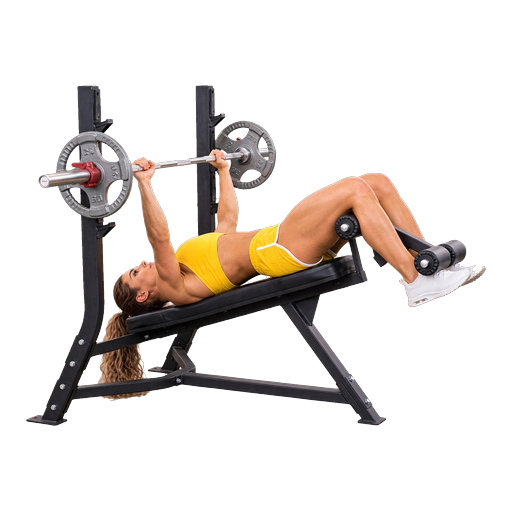
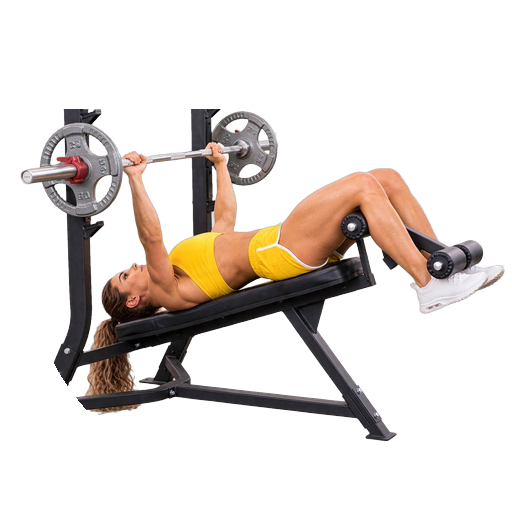
1.8.40 : nouveaux cadrages et détourage refait pour 8 icônes d'exercices
Claude-Session: https://claude.ai/code/session_01D2bERS7WBZgExNoVRodtwC

Changed region(s): [[0.0312, 0.1562, 1.0, 0.875]]

diff --git a/sw.js b/sw.js
@@ -4,7 +4,7 @@
 // APP_VERSION doit être incrémenté à chaque release (en même temps que
 // manifest.json) : le navigateur ne réinstalle le service worker que si
 // le contenu de ce fichier change.
-const APP_VERSION = '1.8.39';
+const APP_VERSION = '1.8.40';
 // 1.7.64 (co-auteur : Claude) : production (…/suivi-fitness/) et test (…/suivi-fitness/dev/) sont sur le même
 // domaine et partagent le stockage des caches : chaque version nomme ses caches d'après son dossier et ne
 // supprime que les siens (plus les anciens caches sans dossier, d'avant la 1.7.64).

diff --git a/CHANGELOG.md b/CHANGELOG.md
@@ -7,6 +7,15 @@ et ce projet respecte [Semantic Versioning](https://semver.org/spec/v2.0.0.html)
 
 ---
 
+## [1.8.40] - 2026-11-18
+### 🎨 Icônes d'exercices : nouveaux cadrages et détourage refait (co-auteur : Claude)
+- Cadrages choisis sur la planche interactive : « Débordant » (serré, coupé net par le bas de la pastille, la tête et les bras peuvent dépasser en haut) pour Développé décliné, Écarté poulie, Curl incliné, Rotation russe, Tapis de course, Curl biceps et Rowing barre (ces deux derniers plus zoomés) ; « Serré » pour Relevés de jambes suspendu (barre raccourcie à droite, baskets entières).
+- Rien d'essentiel n'est coupé par la pastille : baskets, cheveux et disques de barre peuvent déborder.
+- Détourage refait : l'athlète est détourée par un modèle (cheveux, peau et baskets blanches nets, plus de taches de fond), le matériel sombre (banc, tapis, barre, tapis de course) par la couleur du fond.
+- Écarté poulie : câbles des poulies en jaune à liseré noir, lisibles sur fond sombre.
+
+---
+
 ## [1.8.39] - 2026-11-18
 ### 🎨 Icônes d'exercices : 5 nouvelles, 3 remplacées (co-auteur : Claude)
 - Nouvelles : Développé décliné, Écarté poulie, Curl incliné, Rotation russe, Tapis de course (photos fournies, détourées). Les chaussures blanches sur fond blanc ont été redessinées au contour, l'ombre au sol retirée ; pour l'écarté poulie, seules les têtes de poulie sont gardées (montants retirés).
